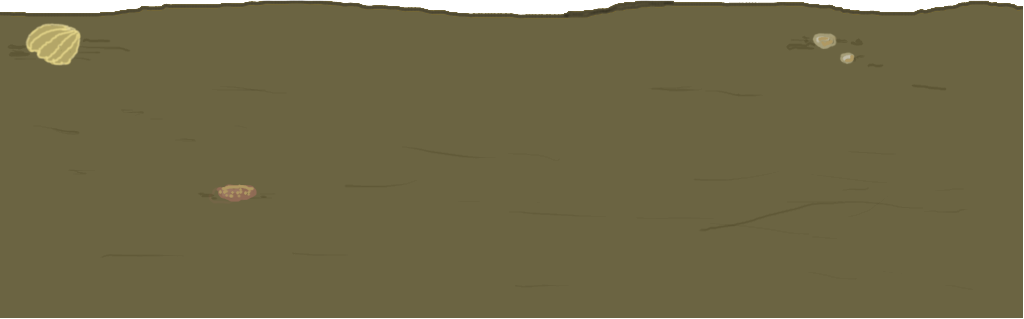
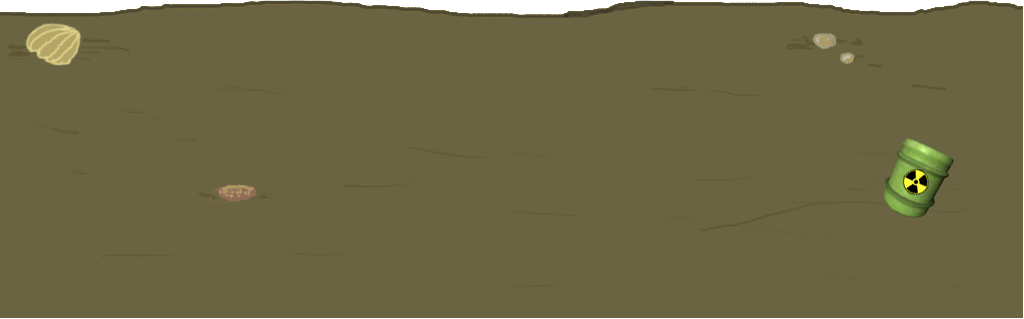
Fixed some images, water line is rising up properly

Changed region(s): [[0.8438, 0.4232, 0.9375, 0.6771]]

diff --git a/dgreed/apps/keymingler/game.c b/dgreed/apps/keymingler/game.c
@@ -45,6 +45,7 @@ uint hit_counter;
 uint miss_counter;
 uint sink_counter;
 float water_t;
+float water_line;
 
 void _load_anim(uint n_frames, const char* path, TexHandle* out) {
 	char filename[256];
@@ -83,6 +84,7 @@ void _draw_water(float level, float t) {
 	float bottom_y = lerp(700.0f, 768.0f - 319.0f, level);
 	float water1_y = lerp(650.0f, 768.0f - 590.0f, level);
 	float water2_y = water1_y - 50.0f;
+	water_line = water1_y + 20.0f;
 
 	RectF dest = rectf(0.0f, bottom_y, 0.0f, 0.0f);
 	video_draw_rect(tex_bottom, 1, NULL, &dest, COLOR_WHITE);
@@ -180,7 +182,7 @@ void _update_barrels(float t, float dt) {
 		}
 
 		barrels[i].pos.y += dt *  barrel_fall_speed;
-		if(barrels[i].pos.y > SCREEN_HEIGHT - 100.0f) {
+		if(barrels[i].pos.y > water_line) {
 			// Destroy barrel
 			sound_play(sound_sinked);
 			_remove_barrel(i);
